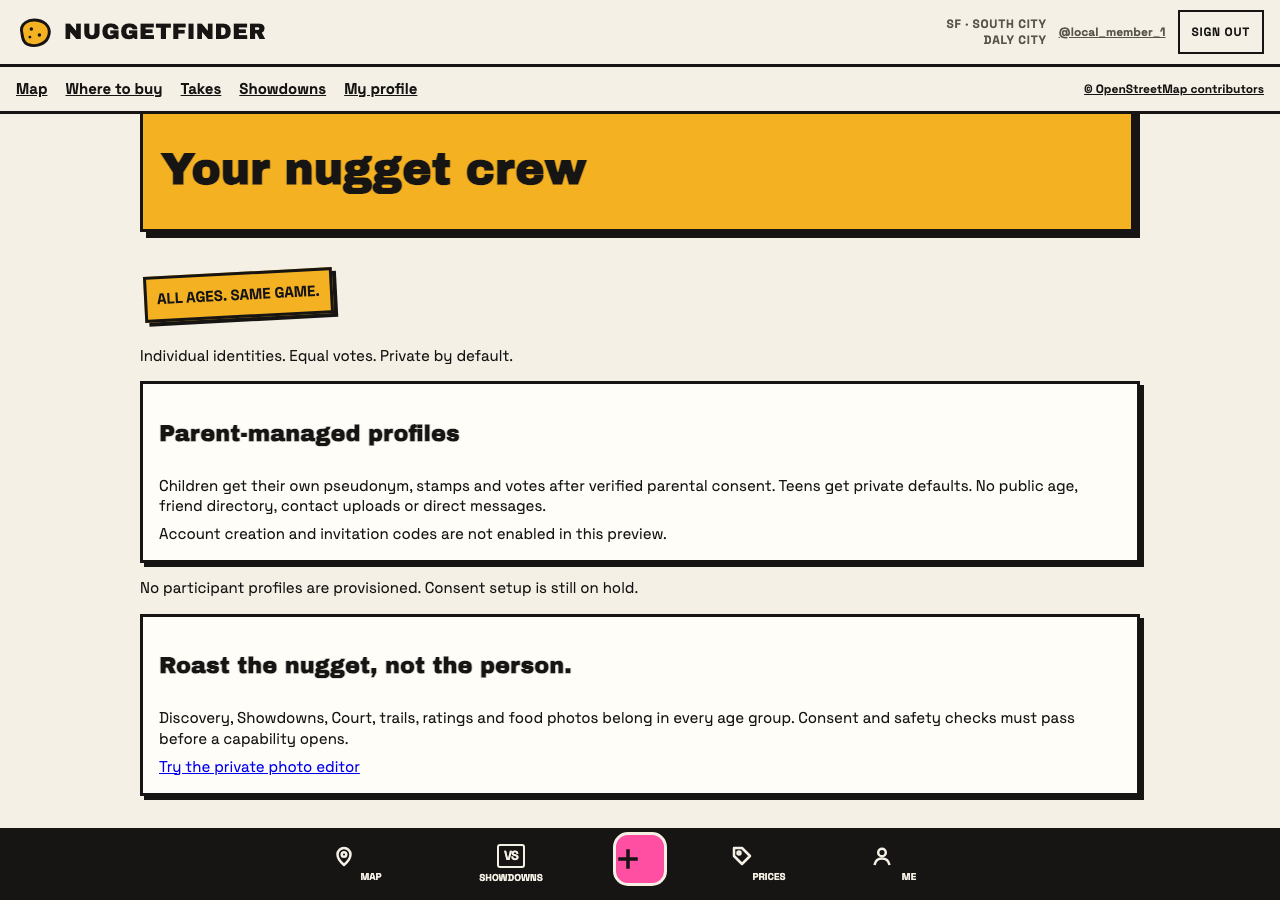
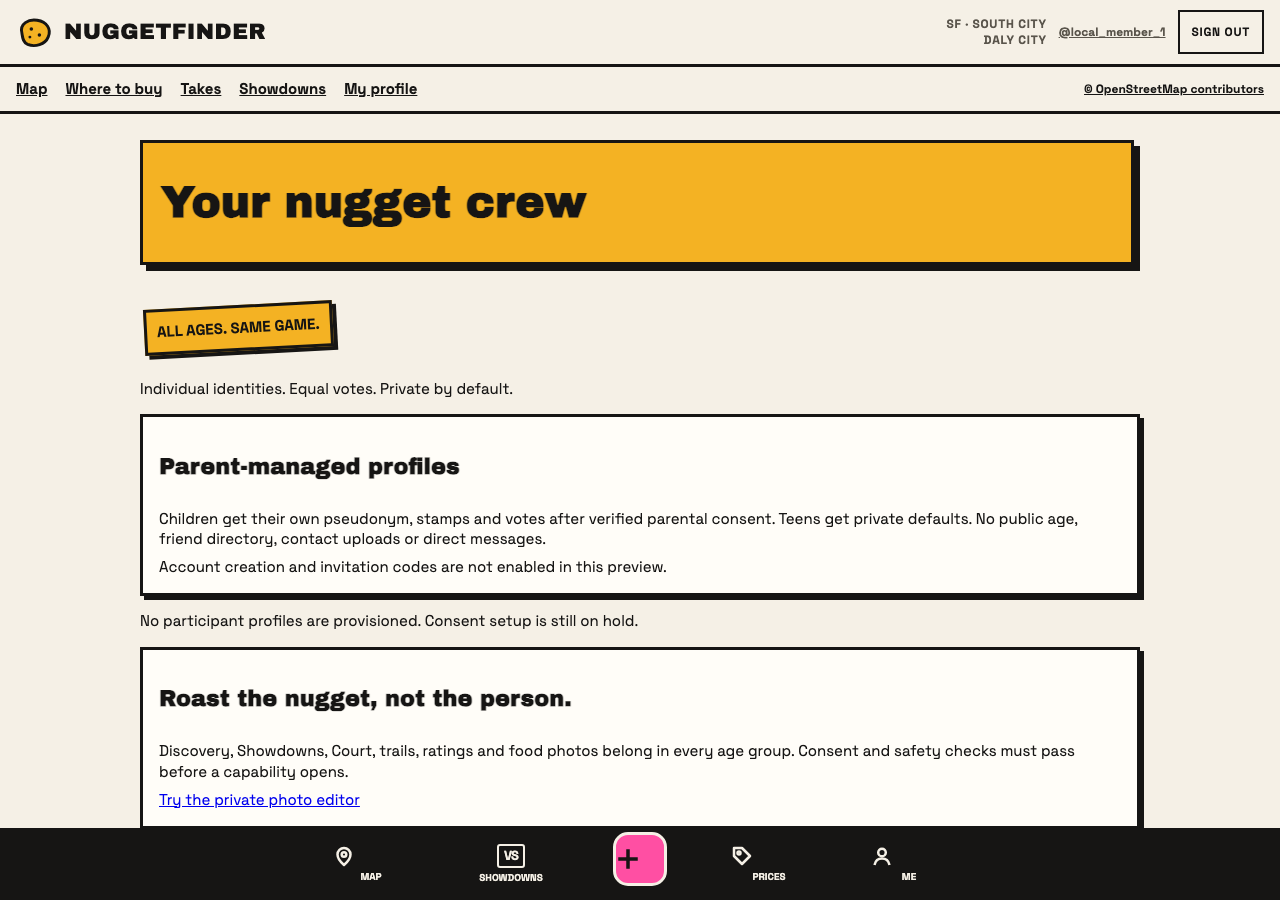
Verify inline photo preparation preserves take drafts and document broker gates

Changed region(s): [[0.0938, 0.1244, 0.9062, 0.9333]]

diff --git a/js/photo-evidence.js b/js/photo-evidence.js
@@ -65,6 +65,7 @@
  }
  community.mountPhotoEvidence=mount;
  community.pages.photo=(root,route,client,user,esc)=>{
+  root.scrollTop=0;
   const query=new URLSearchParams(route.query), kind=query.get('kind'), ref=query.get('ref');
   community.shell(root,'Nugget evidence','<p class="photo-hold">DEVELOPMENT PREVIEW · Publication is on hold.</p>'+
    (kind&&ref?'<p>Prepared for '+esc(kind)+': '+esc(ref)+'</p>':'')+'<div data-photo-editor></div><p><a href="#/participation">Family &amp; participation controls</a></p>');
@@ -73,6 +74,7 @@
   observer.observe(root,{childList:true});
  };
  community.pages.participation=async(root,route,client,user,esc)=>{
+  root.scrollTop=0;
   community.shell(root,'Your nugget crew','<div class="photo-sticker">ALL AGES. SAME GAME.</div><p>Individual identities. Equal votes. Private by default.</p>'+
    '<div class="wave-card"><h2>Parent-managed profiles</h2><p>Children get their own pseudonym, stamps and votes after verified parental consent. Teens get private defaults. No public age, friend directory, contact uploads or direct messages.</p><p>Account creation and invitation codes are not enabled in this preview.</p></div>'+
    '<div data-participants><p role="status">'+(user?'Checking your private profiles…':'Sign in to view your private profiles. No information is public here.')+'</p></div>'+
@@ -81,7 +83,7 @@
   const panel=root.querySelector('[data-participants]');
   try{
    const rows=await community.rpc(client,'my_participants');if(!panel.isConnected)return;
-   panel.innerHTML=rows.length?rows.map(p=>'<article class="wave-card"><h2>'+esc(p.pseudonym)+'</h2><p>'+(p.paused?'Paused':'Private participant')+'</p><ul>'+Object.entries(p.capabilities).map(([key,on])=>'<li>'+esc(key)+': '+(on?'Available':'Awaiting requirements')+'</li>').join('')+'</ul><button type="button" data-pause="'+esc(p.id)+'">Pause participation</button></article>').join(''):'<p>No participant profiles are provisioned. Consent setup is still on hold.</p>';
+   panel.innerHTML=rows.length?rows.map(p=>'<article class="wave-card"><h2>'+esc(p.pseudonym)+'</h2><p>'+(p.paused?'Paused':'Private participant')+'</p><ul>'+Object.entries(p.capabilities).map(([key,on])=>'<li>'+esc(key)+': '+(on?'Available':'Awaiting requirements')+'</li>').join('')+'</ul><button class="big ghost" type="button" data-pause="'+esc(p.id)+'">Pause participation</button></article>').join(''):'<p>No participant profiles are provisioned. Consent setup is still on hold.</p>';
    panel.querySelectorAll('[data-pause]').forEach(button=>button.onclick=async()=>{button.disabled=true;try{await community.rpc(client,'pause_participant',{p_participant:button.dataset.pause});button.textContent='Participation paused';}catch(error){button.disabled=false;button.textContent='Could not pause. Try again.';}});
   }catch(error){if(panel.isConnected)panel.textContent='Participation controls are not connected yet. No permissions have been enabled.';}
  };

diff --git a/js/takes.js b/js/takes.js
@@ -18,7 +18,7 @@
       '<label class="visually-hidden" for="takeText">Your take</label><textarea id="takeText" maxlength="280" required rows="7" placeholder="Roast the nugget. Make your case."></textarea>'+
       '<span class="composer-character-count">0 / 280</span></div>'+
       '<div class="composer-media"><button type="button" data-soon="Video">Record · soon</button><button type="button" data-photo>Prepare a food photo</button>'+
-      '<span>Text take</span></div>'+
+      '<span>Text take</span></div><div data-take-photo hidden></div>'+
       '<div class="composer-tag-options"><details><summary>@ Tag a friend</summary><label for="friendSearch">Find a handle</label>'+
       '<input id="friendSearch" minlength="2" maxlength="20" placeholder="At least two letters"><button type="button" data-find>Find</button>'+
       '<select id="tagFriend" aria-label="Tag an account"><option value="">No tag</option></select></details>'+

diff --git a/docs/participation-photo/PLAN.md b/docs/participation-photo/PLAN.md
@@ -76,6 +76,8 @@ Keep Pages for static UI, Supabase for private records/storage and a trusted upl
 
 Budget example, not a quote: target 200 KB display + 30 KB thumb per approved image. 1,000 images occupy about 230 MB excluding database, rejected/pending data, overhead and backups. 10,000 images occupy about 2.3 GB. 10,000 full-display views transfer about 2 GB; repeated grid thumbnails also count. Quality/output targets need real food/receipt sample testing; the processor's hard ceiling is 1.5 MB per variant, so capacity planning must include worst case or tighter adaptive compression. Supabase documents 1 GB Free storage and separate cached/uncached egress quotas; monitor both rather than assuming all free capacity is available. Current project plan/usage was not accessed.
 
+Published Supabase reference prices as checked on 2026-11-25: Free is $0/month with 1 GB file storage, 5 GB uncached and 5 GB cached egress. Pro starts at $25/month with 100 GB file storage and 250 GB in each egress category; published overages are $0.0213/GB storage, $0.09/GB uncached and $0.03/GB cached egress. These are provider list prices, not a recommendation to upgrade or a total operating budget. Database, email, worker, consent and staffing limits are separate. No plan change is authorized.
+
 Options requiring Mat's later explicit approval: any paid parental verification provider, paid image screening, paid SMTP, storage/egress upgrade, image-worker hosting or support staffing. Provider prices remain unknown until verification method, volume and vendor terms are chosen. Manual consent verification also costs staff time and is not automatically legally adequate. No paid-service or LLM calls were made.
 
 ## Specific review decisions
@@ -101,7 +103,7 @@ Accessed 2026-11-25. Legal analysis is for review, not a legal conclusion. Confi
 - [FTC COPPA FAQs](https://www.ftc.gov/business-guidance/resources/complying-coppa-frequently-asked-questions): consent, photos/metadata, audience/actual knowledge and persistent identifiers. Ask counsel how the intended all-age design affects classification, onboarding, map/CDN identifiers and collection before consent.
 - [2025 amended COPPA rule, Federal Register](https://www.govinfo.gov/content/pkg/FR-2025-04-22/pdf/2025-05904.pdf): updated consent, disclosure, security and retention obligations. Ask counsel to establish operative dates, required notices, purpose limits and a documented retention schedule for the planned launch.
 - [16 CFR 312.5](https://www.govinfo.gov/content/pkg/CFR-2026-title16-vol1/xhtml/CFR-2026-title16-vol1-sec312-5.html): verification methods vary by use/disclosure. Which method and separate permissions are adequate for public photo/observation contributions and parent-managed accounts?
-- [California DOJ child privacy guidance](https://oag.ca.gov/privacy/facts/online-privacy/child-privacy) and [CPPA 2026 statute](https://cppa.ca.gov/regulations/pdf/ccpa_statute_eff_20260101.pdf): child/teen privacy and sale/sharing controls. No sale/sharing is planned. Ask counsel which California obligations, youth design laws, litigation/enforcement developments and thresholds apply; this pass does not resolve those.
+- [California DOJ child privacy guidance](https://oag.ca.gov/privacy/facts/online-privacy/child-privacy) and [CPPA 2026 regulations](https://cppa.ca.gov/regulations/pdf/ccpa_statute_eff_20260101.pdf): child/teen privacy and sale/sharing controls. No sale/sharing is planned. Ask counsel which California obligations, youth design laws, litigation/enforcement developments and thresholds apply; this pass does not resolve those.
 - [Supabase Storage access control](https://supabase.com/docs/guides/storage/security/access-control), [private buckets](https://supabase.com/docs/guides/storage/buckets/fundamentals), [asset delivery](https://supabase.com/docs/guides/storage/serving/downloads): private storage depends on authorization; do not use public buckets for pending evidence.
 - [Supabase Edge limits](https://supabase.com/docs/guides/functions/limits): validate the image workload against resource limits before selecting that worker architecture.
 - [Supabase pricing](https://supabase.com/pricing), [storage usage](https://supabase.com/docs/guides/platform/manage-your-usage/storage-size), [egress usage](https://supabase.com/docs/guides/platform/manage-your-usage/egress): published quotas/prices can change. Recheck before any purchase, with project usage and realistic samples.

diff --git a/services/photo/README.md b/services/photo/README.md
@@ -1,0 +1,21 @@
+# Photo processing component
+
+Local processing only. No network endpoint, credentials, Storage writes, publication, face detection or moderation decision. Do not expose this function directly to uploads.
+
+Python 3.13 with `pip install -r services/photo/requirements.txt`, then `python -m unittest discover -s tests/photo -v`. Use an isolated environment. The tested dependency is Pillow 13.0.0; older versions are rejected. Keep codec security and the runtime image under review.
+
+`process_image(bytes, crop=None, redactions=())` accepts at most 8 MiB, 12 million decoded pixels and 30 opaque redaction rectangles. Rectangles are pixel coordinates `[left, top, right, bottom]` on the EXIF-oriented full image. Apply redactions before cropping. Client percentage coordinates need a validated conversion at the trusted broker; never accept client-only redaction as evidence of safety. Unsupported types, animation, corrupt images, excess dimensions and invalid rectangles fail closed. HEIC is currently unsupported and needs a clear conversion flow or a separately reviewed decoder before real-phone acceptance.
+
+The output holds JPEG bytes for thumb/display, dimensions, content hashes and processor version. It contains no original filename, location, EXIF or original metadata. Hashes are for private byte integrity, never public cross-account tracking. The output explicitly requires human review. The processor cannot recognize people, text, payment information or authenticity.
+
+## Trusted broker contract to implement and test
+
+1. Authenticate a scoped participant session. Check current invitation, photo permission, parent controls, posting status and target visibility. Never accept a client-supplied age, consent success, object key, publication flag or processing-complete flag.
+2. Reserve capacity through the idempotent SQL function. Return an opaque reservation ID. Bound per-account connections, byte stream, wall time and cumulative storage before decoding; daily reservation limits alone do not prevent connection abuse.
+3. Run this processor in a separate process/container with hard memory and CPU/wall-time limits, no outbound network, no credentials and restricted filesystem. Disable core dumps. Do not log input data, filenames, tokens or metadata. Kill on timeout; do not return decoder internals to clients.
+4. Write only sanitized variants to private object keys assigned by the server. Recheck consent/target/deletion/revision after processing. Atomic finalization records processor version/digest and changes reserved to pending only when every variant is committed and size checked. A retry returns the same finalized evidence; it does not duplicate blobs. Clean orphan writes after a crash. No originals need persistent staging.
+5. Queue human review. Never approve a reservation directly or trust a browser's prepared JPEG as sanitized. Review corrected revisions afresh. Moderators cannot verify parental consent merely by approving a food photo.
+6. Serve only through a checked broker that revalidates current consent, publication revision, blocks, account state and linked-content visibility. Do not mint durable public URLs for child evidence. Short-lived links still need an explicit revocation/cache design.
+7. Run scheduled cleanup with retry and measured purge completion. Erasure queue rows alone do not erase Storage or backups. Deleting an auth account must also invalidate effective access and replay erasure after a backup restore. No service_role credential in the browser.
+
+The production adapter is deliberately absent until runtime, consent, serving and operational decisions pass their tests. No production Supabase connection is necessary for the next isolated implementation work. See docs/participation-photo/PLAN.md for acceptance and retention decisions.

diff --git a/docs/account-deletion.md b/docs/account-deletion.md
@@ -3,3 +3,11 @@
 The account screen sends the user's bearer token to a Supabase Edge Function. The function verifies the token with Supabase Auth, derives the account ID on the server, and requests deletion through the Auth admin API. Its service role credential lives in the server environment. The request accepts no target account ID. Require fresh authentication before the final confirmation and rate limit the endpoint. Use the database foreign keys to remove personal rows and test every table before enabling deletion. Expire local sessions after a successful response.
 
 The account screen explains that deletion is pending deployment. Enable the action after review of how to handle abuse records, pending appeals and any legal preservation requests. Test using disposable accounts on a separate project before launch.
+
+## 2026-11-25 participation and photo extension
+
+The [governing directive](FOUNDER_DIRECTIVE.md) now requires parent-controlled child deletion and photo erasure as well as account deletion. The new private participant/photo foundation queues image erasure when a participant is removed, and lets an owner request photo deletion despite a posting restriction or withdrawn consent. This is groundwork, not a completed deletion service.
+
+The trusted deletion workflow must check requester authority with reauthentication, immediately disable participant sessions and public serving, revoke consent, remove or deidentify all participant contributions under the reviewed preservation policy, purge private variants and pending/rejected/orphan objects, and confirm completion. A parent must be able to delete one child without deleting siblings or the parent's account. Account deletion must cover all managed participants. Export must include the requester's managed profiles, relevant rows and authorized sanitized image bytes without another family's data or private object keys.
+
+An idempotent worker needs retry states for Auth, SQL and Storage failures. Never depend on deleting Auth alone to invalidate a still-valid JWT. Backups need an approved expiry schedule and replay of deletion requests before restored data becomes reachable. The byte purge worker, actual auth/session behavior, child contribution cutover and restore rehearsal remain deployment gates. No service_role key may be present in browser code. Production changes remain held.
